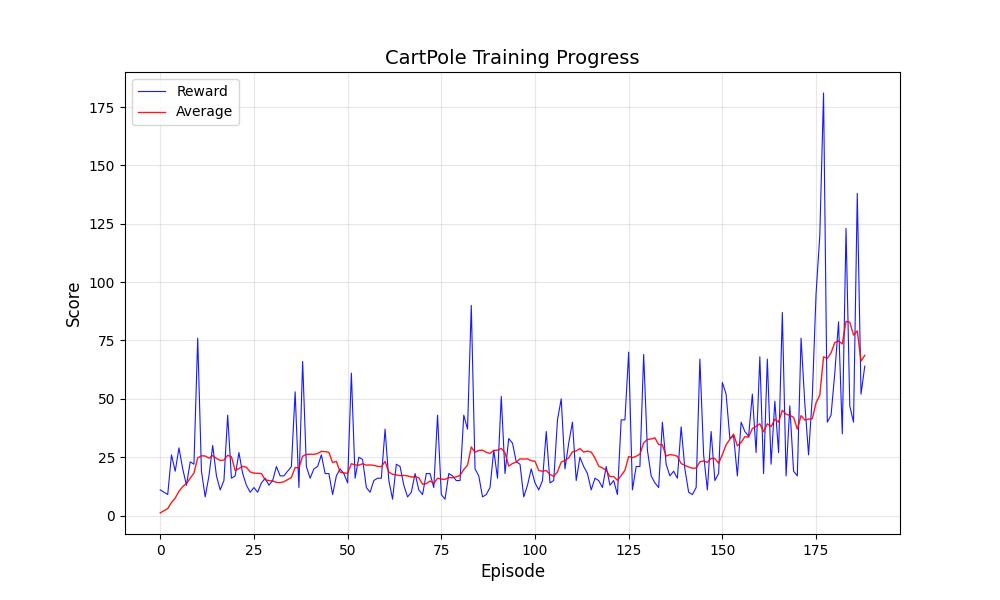
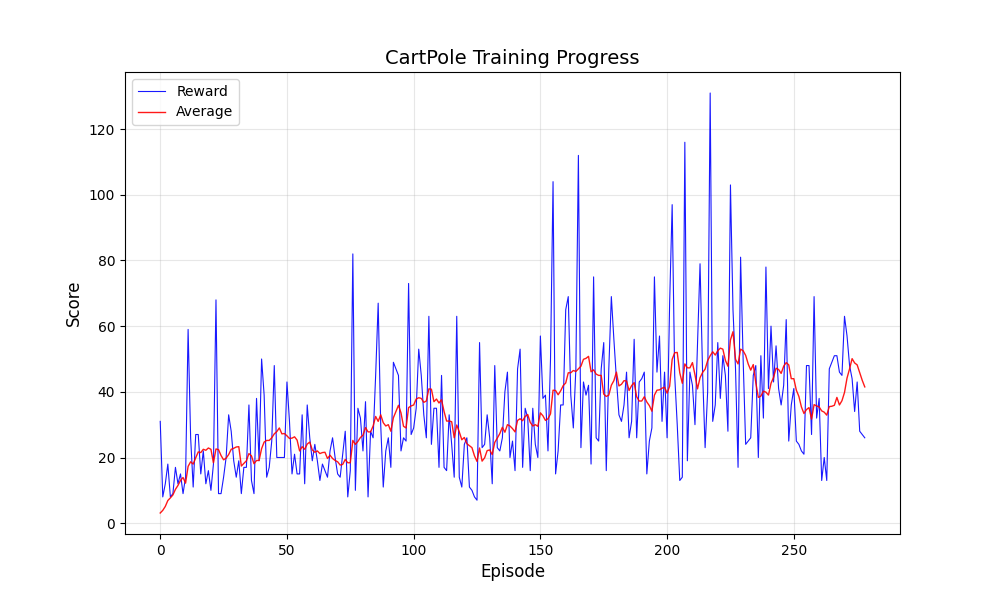
Chaitanya (#4)
* initial PPO

* made hybrid evolutionary reinforcement Algorithm using PPO

* added visualization

diff --git a/PPO/visualize_model.py b/PPO/visualize_model.py
@@ -1,0 +1,36 @@
+import gymnasium as gym
+import torch
+from agent import Agent
+
+def visualize_trained_model():
+    # Create environment with rendering
+    env = gym.make('CartPole-v1', render_mode='human')
+
+    # Create and load the trained agent
+    agent = Agent()
+
+    # Run 5 episodes to visualize the trained model
+    for episode in range(5):
+        state, _ = env.reset()
+        episode_reward = 0
+        done = False
+
+        while not done:
+            # Get action from the trained policy
+            with torch.no_grad():
+                state_tensor = torch.FloatTensor(state)
+                action_probs = agent.policy_network.pi(state_tensor)
+                action = torch.distributions.Categorical(action_probs).sample().item()
+
+            # Take action in environment
+            next_state, reward, terminated, truncated, _ = env.step(action)
+            done = bool(terminated or truncated)
+            episode_reward += reward
+            state = next_state
+
+        print(f"Episode {episode + 1} finished with reward: {episode_reward}")
+
+    env.close()
+
+if __name__ == "__main__":
+    visualize_trained_model()

diff --git a/PPO/agent.py b/PPO/agent.py
@@ -76,6 +76,7 @@ class Agent(AgentConfig, EvolutionConfig):
         solved = False
 
         while not solved:
+            print(f"\nEpisode {episode + 1}")
             # Evolutionary Phase
             for gen in range(self.evolution_epochs):
                 # Evaluate all policies in the population
@@ -102,7 +103,8 @@ class Agent(AgentConfig, EvolutionConfig):
 
                 # Fine-tune with PPO
                 for _ in range(self.ppo_epochs):
-                    self.train_ppo_episode()
+                    reward = self.train_ppo_episode()
+                    print(f"PPO Episode Reward: {reward:.2f}")
 
                 # Update policy in population with fine-tuned weights
                 policy.load_state_dict(self.policy_network.state_dict())

diff --git a/PPO/config.py b/PPO/config.py
@@ -17,14 +17,14 @@ class AgentConfig:
 
 class EvolutionConfig:
     # Evolutionary Algorithm Parameters
-    population_size = 50
-    num_generations = 30
+    population_size = 10
+    num_generations = 20
     mutation_rate = 0.1
     mutation_scale = 0.1
     tournament_size = 5
     elite_size = 1
 
     # Hybrid Training Parameters
-    evolution_epochs = 3  # Number of evolutionary generations before PPO fine-tuning
+    evolution_epochs = 5  # Number of evolutionary generations before PPO fine-tuning
     ppo_epochs = 3  # Number of PPO updates after evolution
     num_ppo_policies = 3  # Number of top policies to fine-tune with PPO
